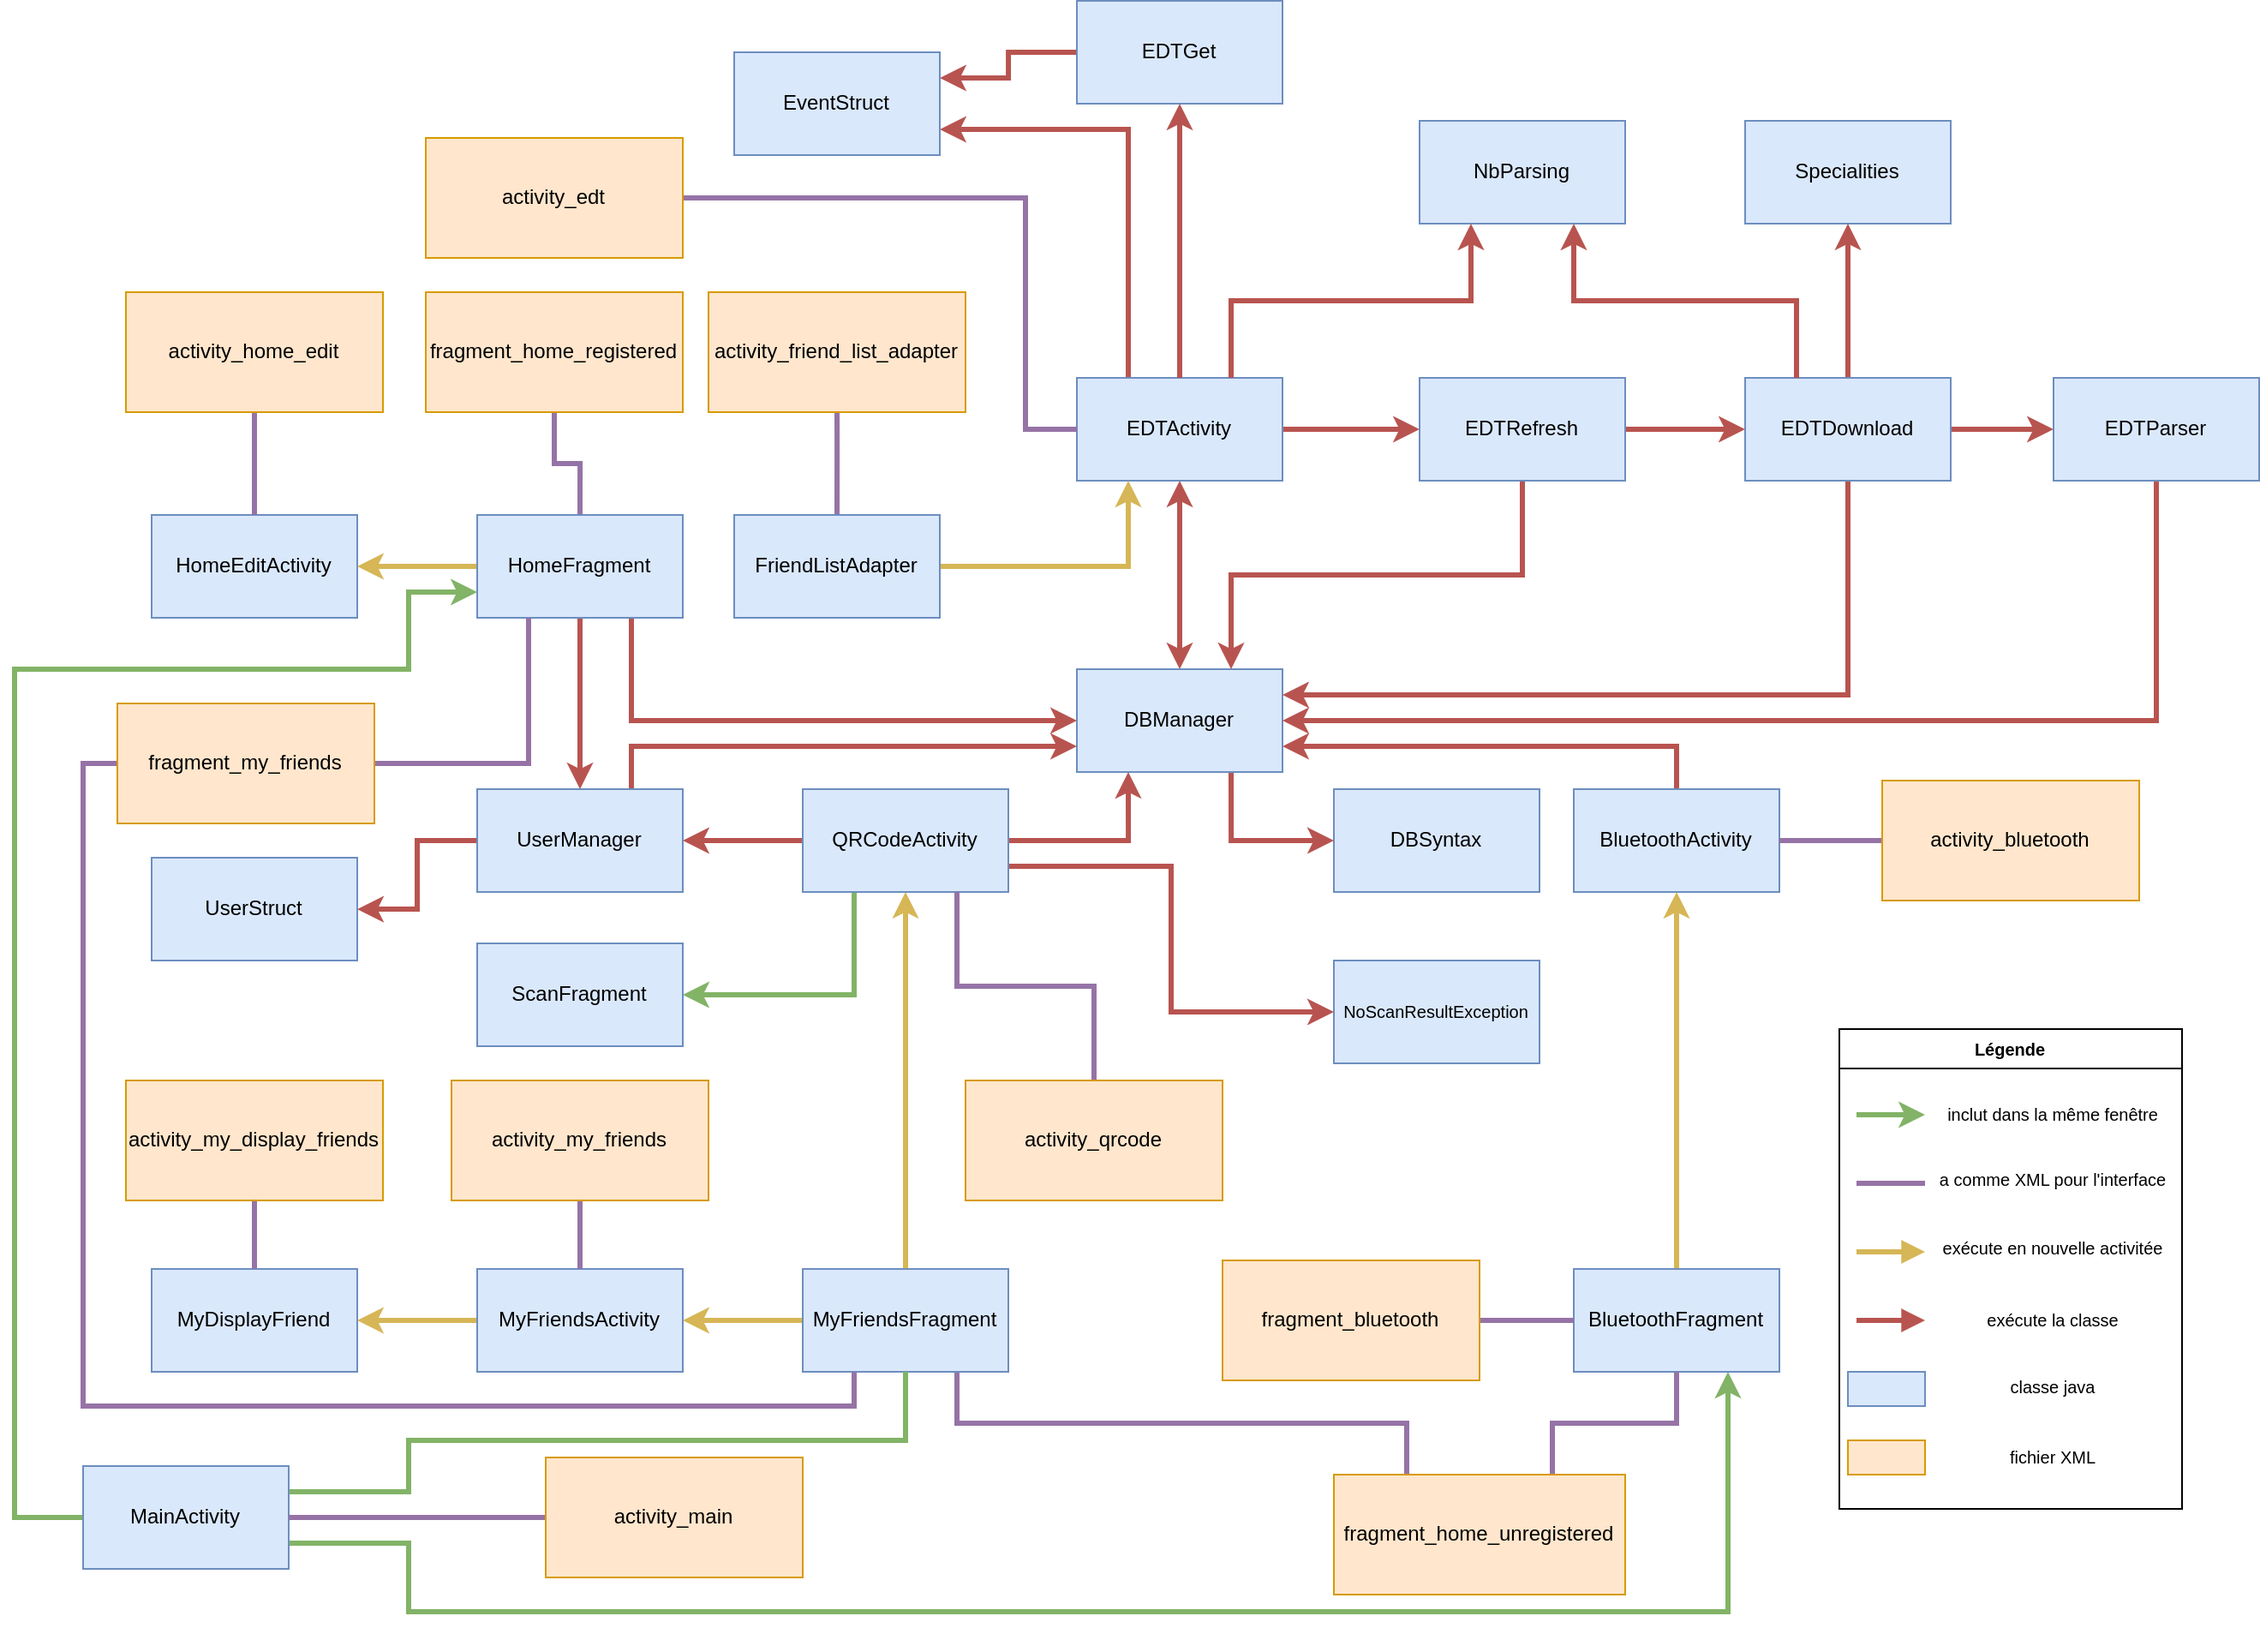
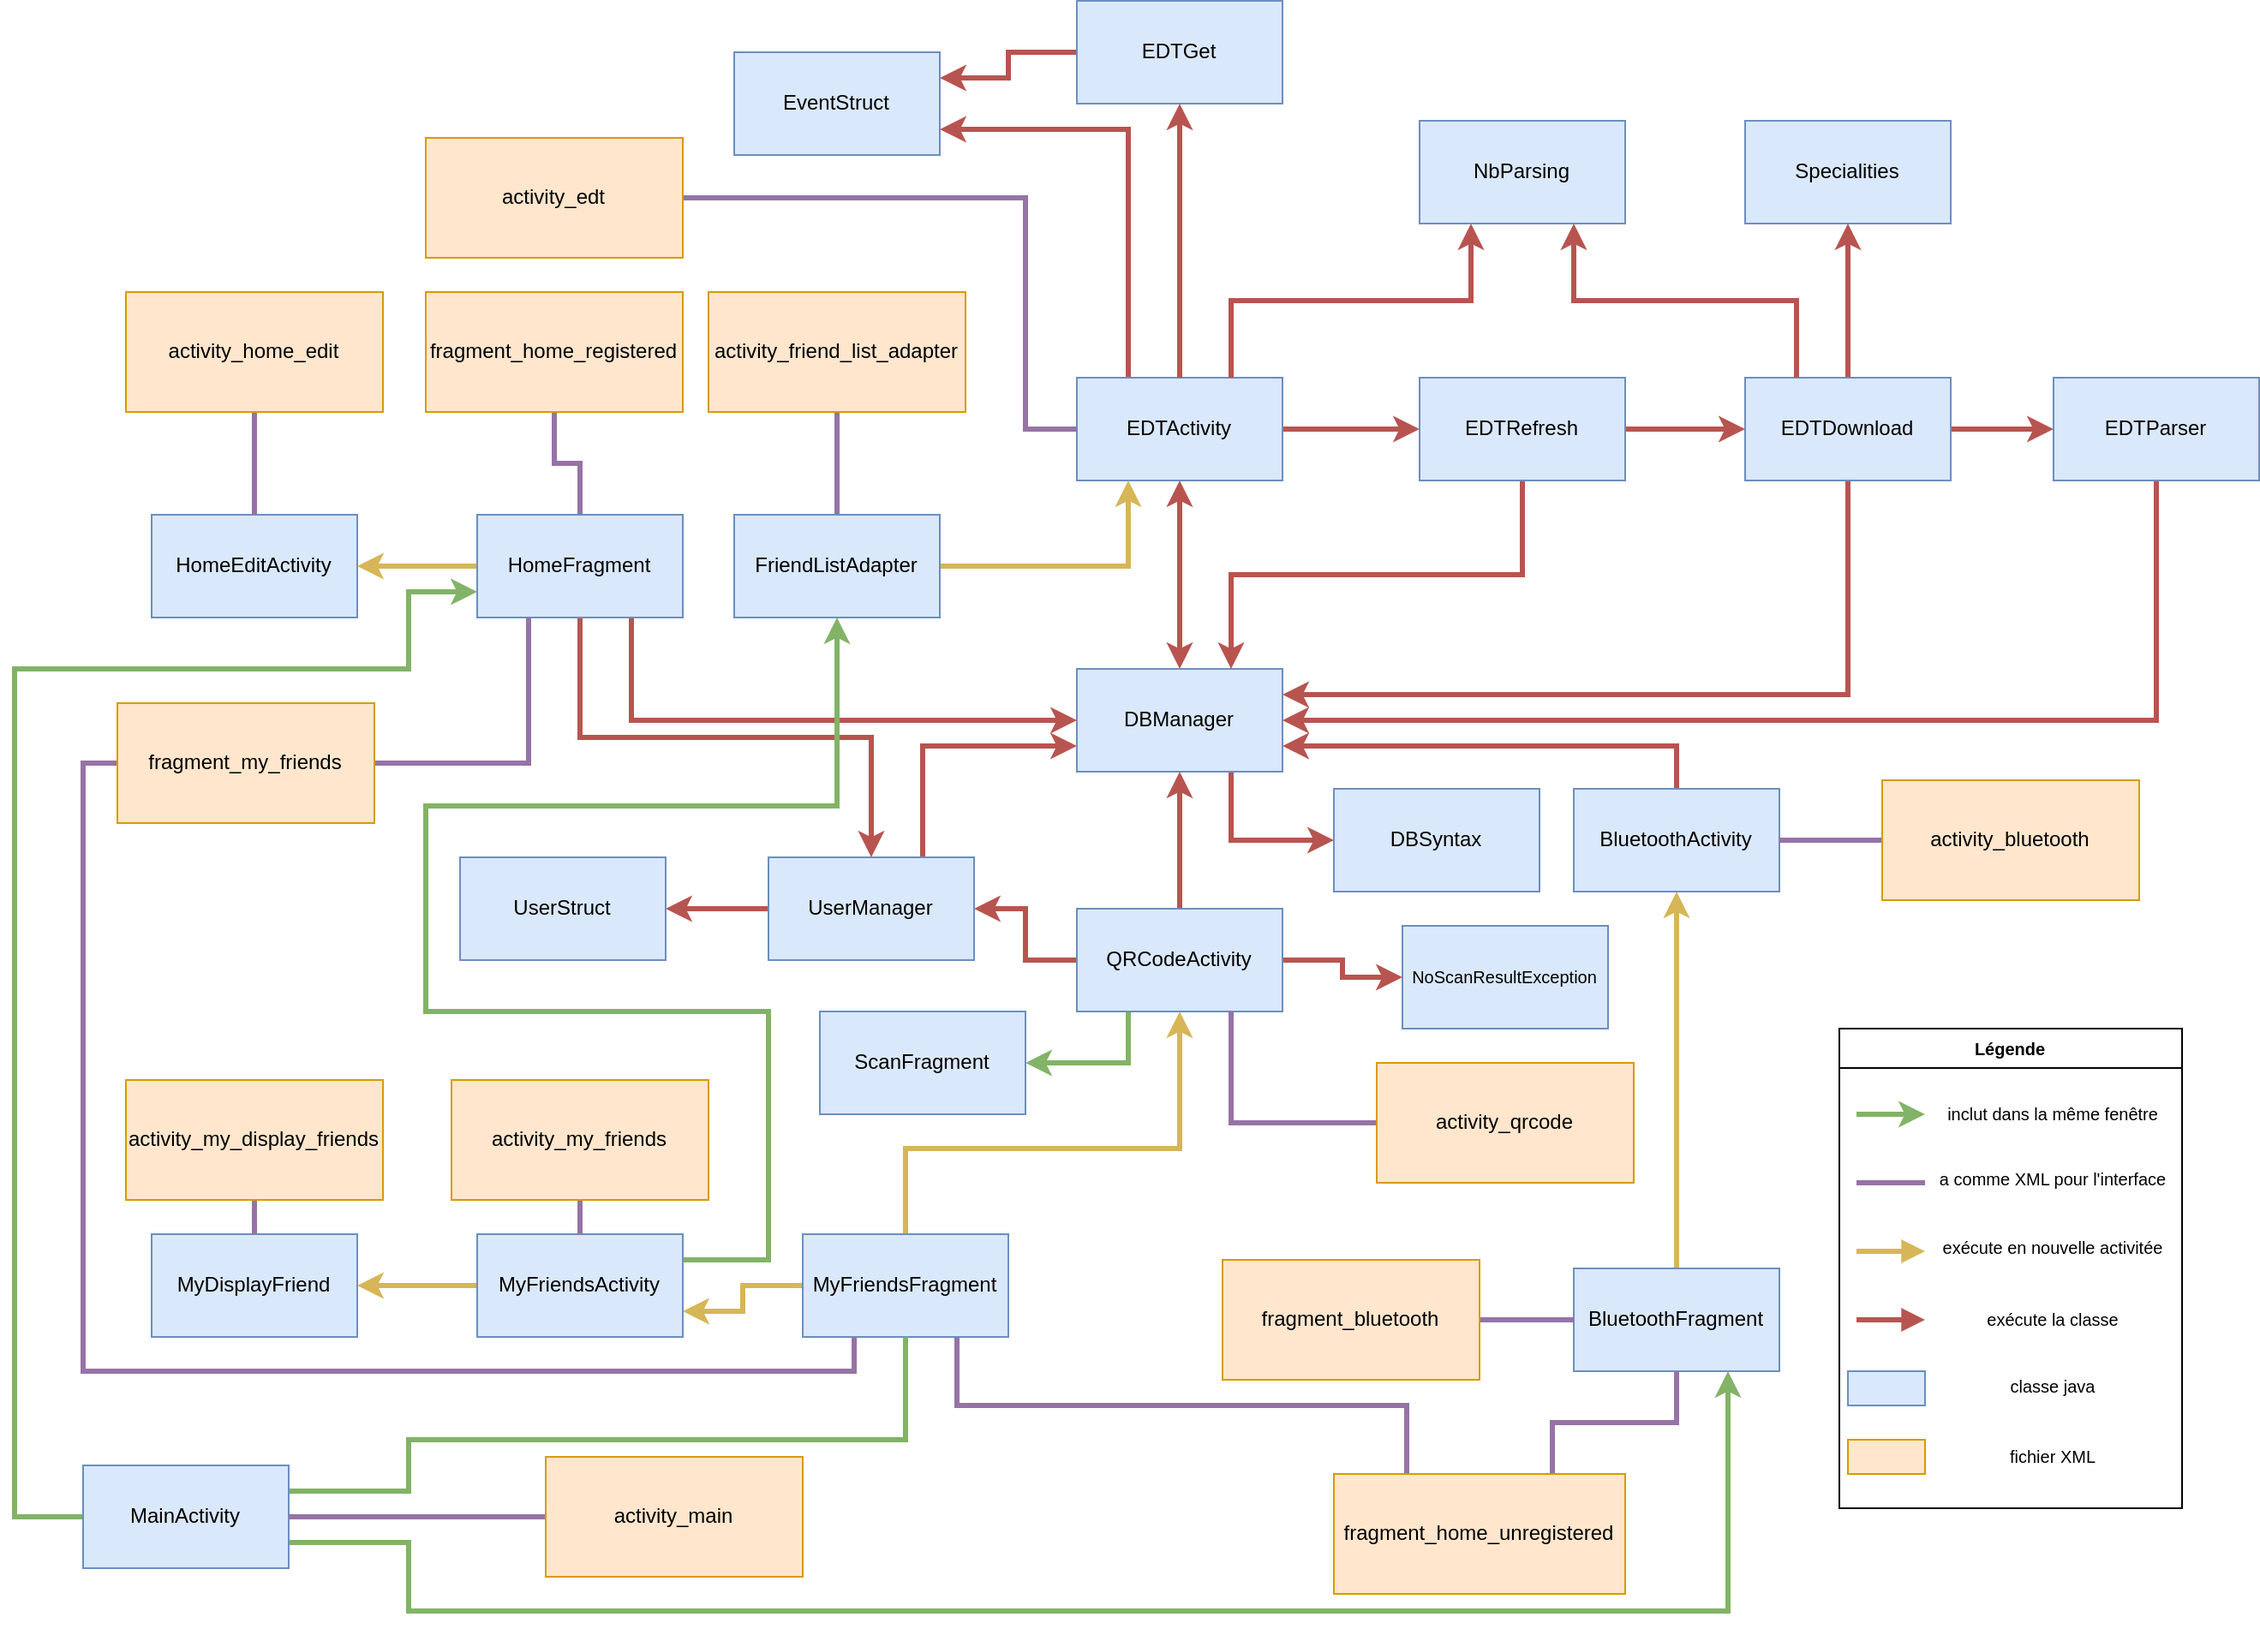
Update README + update scheme

diff --git a/README.md b/README.md
@@ -33,9 +33,13 @@ Ce diagramme permet de visualiser les différentes intéractions entre les class
 
 ### Définition des classes
 
-Le projet est composé de 24 classes réparties dans 2 dossiers:
+Le projet est composé de 24 classes. 
 
-#### edt
+Il y a tout d'abord la classe `MainActivity` qui est la classe principale de l'application. C'est elle qui est appelée au lancement de l'application.
+
+Les autres classes sont réparties dans 2 dossiers:
+
+#### Le dossier `edt`
 Ce dossier contient les classes permettant de gérer et afficher l'emploi du temps de l'utilisateur. Il contient également des classes permettant de gérer les utilisateurs et leurs amis.
 
 Pour cela, il y a une partie de gestion de base de données (BDD) avec les classes:
@@ -58,7 +62,7 @@ Enfin, il y a une partie permettant d'afficher l'emploi du temps de l'utilisateu
 
 Il y a également une classe `NbParsing` qui permet de compter le nombre de parsing effectués par l'application (pour savoir si le téléchargement de l'emploi du temps est terminé) et une classe `Specialities` qui permettent de définir le nombre de promotions de Polytech et les spécialités de Polytech.
 
-#### ui
+#### Le dossier `ui`
 Ce dossier contient les classes permettant de gérer les affichages de l'application (en dehors de l'emploi du temps), ainsi que l'ajout d'amis (via le QR Code) et l'envoi de la liste des utilisateurs à un autre appareil (via le bluetooth).
 
 ## Credits
